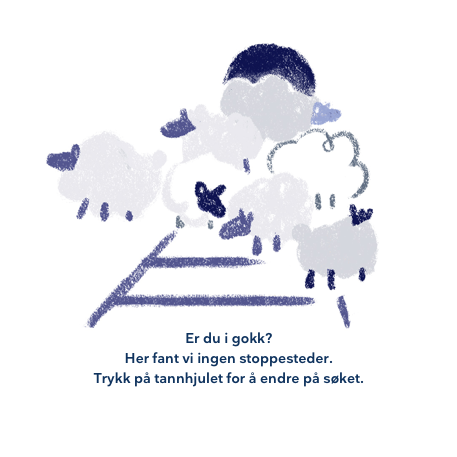
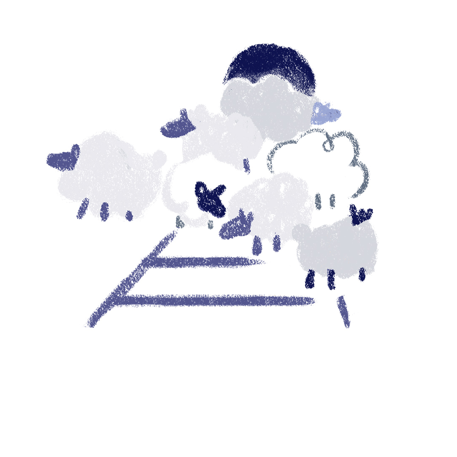
ETU-2563: Updated noStops image and text

Changed region(s): [[0.2144, 0.7352, 0.7965, 0.8578]]

diff --git a/src/containers/DashboardWrapper/index.tsx b/src/containers/DashboardWrapper/index.tsx
@@ -65,7 +65,16 @@ function DashboardWrapper(props: Props): JSX.Element {
             return <Loader>Laster...</Loader>
         }
 
-        return <img className="no-stops" src={errorImage} />
+        return (
+            <div className="dashboard-wrapper__no-stops">
+                <img src={errorImage} />
+                <div>
+                    <header>Er du utenfor allfarvei?</header>
+                    Vi finner ingen stoppesteder her, trykk på tannhjulet for å
+                    endre på søket.
+                </div>
+            </div>
+        )
     }
 
     return (

diff --git a/src/containers/DashboardWrapper/styles.scss b/src/containers/DashboardWrapper/styles.scss
@@ -7,9 +7,24 @@
     overflow: scroll;
     height: calc(100vh);
 
-    .no-stops {
-        display: block;
-        margin: auto;
+    &__no-stops {
+        img {
+            display: block;
+            margin: auto;
+        }
+
+        div {
+            color: $colors-blues-blue20;
+            margin: auto;
+            position: relative;
+            text-align: center;
+            top: -8.25rem;
+            width: 20rem;
+
+            header {
+                font-weight: 600;
+            }
+        }
     }
 
     &__top {
